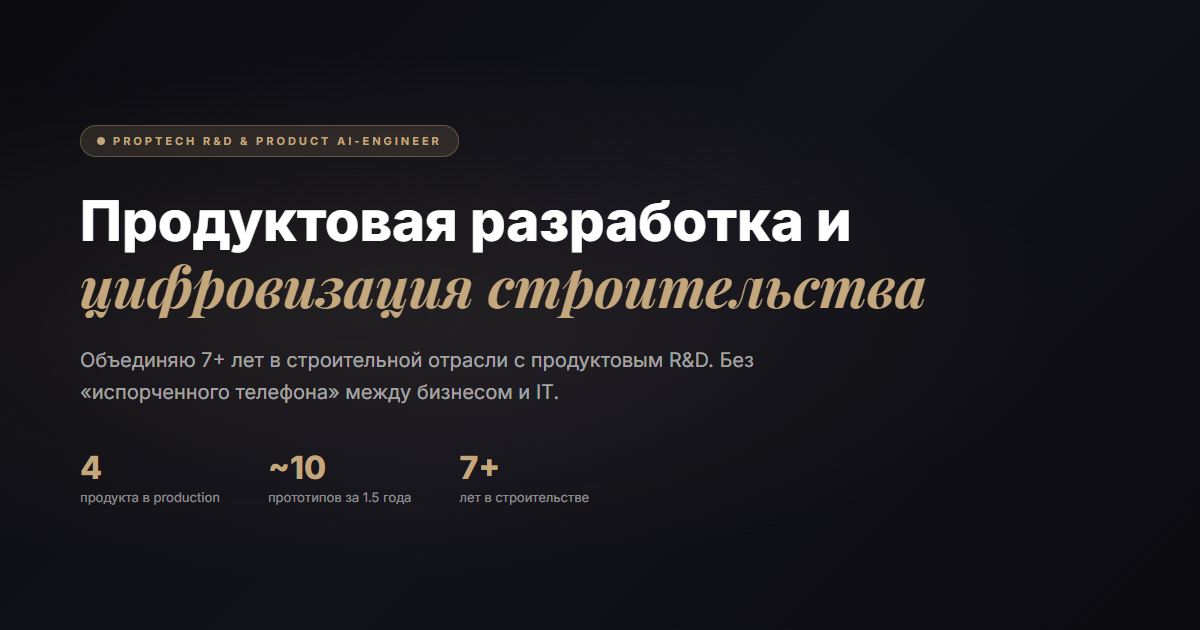
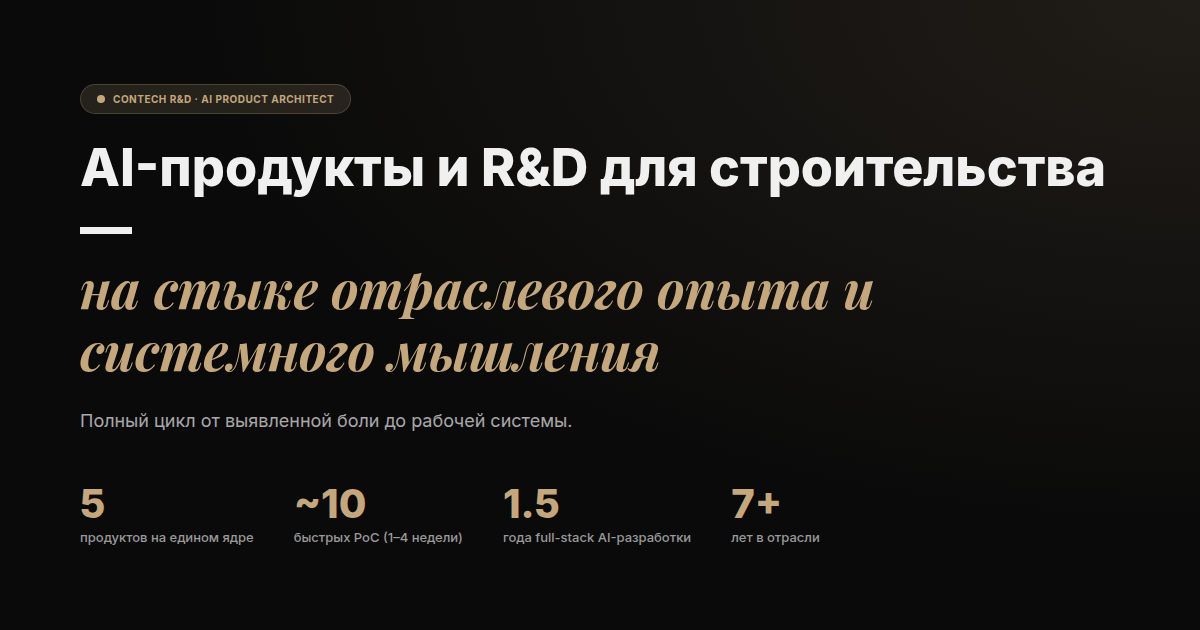
snapshot: визитка как на проде, перед правкой копирайта (Hero/Scanner)

diff --git a/src/App.tsx b/src/App.tsx
@@ -279,36 +279,13 @@ function Hero() {
                   </>
                 ) : (
                   <>
-                    <span className="text-text-primary">AI-продукты и R&D для строительства —</span>
-                    <br/>
-                    <span className="text-accent italic font-serif">на стыке отраслевого опыта и системного мышления</span>
+                    <span className="text-text-primary">AI-продукты и R&D для строительства</span>
                   </>
                 )}
               </h1>
               <p className="text-[0.95rem] text-text-primary/70 leading-relaxed mb-8 animate-blur-fade delay-200 max-w-[640px]">
                 Полный цикл от выявленной боли до рабочей системы. Проверка гипотез — быстрыми PoC за 1–4 недели. Далее — адаптация под ресурсы заказчика: разработка продукта под ключ (Full-Stack + AI), создание AI-ядра под внутреннюю команду или работа в штате. Без эффекта «сломанного телефона» между бизнесом и IT.
               </p>
-              {/* CTA кнопки */}
-              <div className="flex flex-col sm:flex-row gap-3 animate-blur-fade delay-300">
-                <a
-                  href="#products"
-                  className="inline-flex justify-center items-center gap-2 px-6 py-3 bg-accent text-white rounded-xl text-sm font-semibold no-underline transition-all hover:brightness-110 active:scale-[0.98] shadow-lg shadow-accent/20"
-                >
-                  Продукты
-                </a>
-                <a
-                  href="#approach"
-                  className="inline-flex justify-center items-center gap-2 px-6 py-3 bg-surface-2 border border-border text-text-primary rounded-xl text-sm font-semibold no-underline transition-colors hover:border-accent/30 hover:text-accent"
-                >
-                  Подход
-                </a>
-                <a
-                  href="#research"
-                  className="inline-flex justify-center items-center gap-2 px-6 py-3 bg-surface-2 border border-border text-text-primary rounded-xl text-sm font-semibold no-underline transition-colors hover:border-accent/30 hover:text-accent"
-                >
-                  R&D
-                </a>
-              </div>
             </div>
 
             {/* Hero artifact: isometric stack */}
@@ -405,7 +382,7 @@ function Approach() {
         {/* Methodology */}
         <Reveal>
           <SectionHeader
-            tag="Как создаются продукты"
+            tag="Как я создаю продукты"
             tagColor="bg-purple-soft text-purple"
             title="От прототипов к рабочим системам"
             subtitle="Главный барьер цифровизации — не технологии и не бюджет, а разрыв в глубине понимания предметной области. Я проектирую архитектуру напрямую из домена — без длинной цепочки согласований и бесконечных совещаний."
@@ -642,7 +619,9 @@ function Contact() {
           {/* Contacts row: email · phone (center) · telegram */}
           <div className="flex flex-wrap items-center justify-center gap-8 mt-10">
             <a
-              href="mailto:KhromenokNV@mail.ru"
+              href="#"
+              onMouseEnter={(e) => e.currentTarget.href = `mailto:${['KhromenokNV', 'mail.ru'].join('@')}`}
+              onTouchStart={(e) => e.currentTarget.href = `mailto:${['KhromenokNV', 'mail.ru'].join('@')}`}
               onClick={() => tracker.track('contact_click', { channel: 'email' })}
               className="group inline-flex items-center gap-2 text-sm text-muted hover:text-text-primary transition-colors no-underline"
             >
@@ -650,20 +629,24 @@ function Contact() {
                 <path d="M4 4h16c1.1 0 2 .9 2 2v12c0 1.1-.9 2-2 2H4c-1.1 0-2-.9-2-2V6c0-1.1.9-2 2-2z"/><polyline points="22,6 12,13 2,6"/>
               </svg>
               <span className="group-hover:hidden">email</span>
-              <span className="hidden group-hover:inline">KhromenokNV@mail.ru</span>
+              <span className="hidden group-hover:inline">{['KhromenokNV', 'mail.ru'].join('@')}</span>
             </a>
             <a
-              href="tel:+79268973225"
+              href="#"
+              onMouseEnter={(e) => e.currentTarget.href = `tel:+${[7, 926, 897, 32, 25].join('')}`}
+              onTouchStart={(e) => e.currentTarget.href = `tel:+${[7, 926, 897, 32, 25].join('')}`}
               onClick={() => tracker.track('contact_click', { channel: 'phone' })}
               className="inline-flex items-center gap-2 text-base font-semibold text-text-primary hover:text-accent transition-colors no-underline"
             >
               <svg width="16" height="16" viewBox="0 0 24 24" fill="none" stroke="currentColor" strokeWidth="2" strokeLinecap="round" strokeLinejoin="round">
                 <path d="M22 16.92v3a2 2 0 0 1-2.18 2 19.79 19.79 0 0 1-8.63-3.07 19.5 19.5 0 0 1-6-6 19.79 19.79 0 0 1-3.07-8.67A2 2 0 0 1 4.11 2h3a2 2 0 0 1 2 1.72 12.84 12.84 0 0 0 .7 2.81 2 2 0 0 1-.45 2.11L8.09 9.91a16 16 0 0 0 6 6l1.27-1.27a2 2 0 0 1 2.11-.45 12.84 12.84 0 0 0 2.81.7A2 2 0 0 1 22 16.92z"/>
               </svg>
-              +7 926 897-32-25
+              +7 {['92', '6'].join('')} {['89', '7'].join('')}-{['3', '2'].join('')}-25
             </a>
             <a
-              href="https://t.me/psykhrometer"
+              href="#"
+              onMouseEnter={(e) => e.currentTarget.href = `https://${['t', 'me'].join('.')}/${['psyk', 'hrometer'].join('')}`}
+              onTouchStart={(e) => e.currentTarget.href = `https://${['t', 'me'].join('.')}/${['psyk', 'hrometer'].join('')}`}
               target="_blank"
               rel="noopener noreferrer"
               onClick={() => tracker.track('contact_click', { channel: 'telegram' })}
@@ -673,7 +656,7 @@ function Contact() {
                 <line x1="22" y1="2" x2="11" y2="13"/><polygon points="22 2 15 22 11 13 2 9 22 2"/>
               </svg>
               <span className="group-hover:hidden">telegram</span>
-              <span className="hidden group-hover:inline">@psykhrometer</span>
+              <span className="hidden group-hover:inline">@{['psyk', 'hrometer'].join('')}</span>
             </a>
           </div>
 

diff --git a/scripts/generate-og.html b/scripts/generate-og.html
@@ -4,34 +4,29 @@
 <meta charset="utf-8">
 <style>
   * { margin: 0; padding: 0; box-sizing: border-box; }
-  body { width: 1200px; height: 630px; overflow: hidden; }
+  body { width: 1200px; height: 630px; overflow: hidden; background: #0a0a0a; }
   .og {
     width: 1200px;
     height: 630px;
-    background: linear-gradient(135deg, #0a0a0f 0%, #12121a 50%, #0a0a0f 100%);
+    background: radial-gradient(ellipse at top right, rgba(196,167,125,0.12) 0%, transparent 60%);
+    background-color: #0a0a0a;
     display: flex;
     flex-direction: column;
     justify-content: center;
     padding: 80px;
     font-family: 'Inter', system-ui, sans-serif;
-    color: #fff;
+    color: #f0f0f0;
     position: relative;
-  }
-  .og::before {
-    content: '';
-    position: absolute;
-    top: 0; left: 0; right: 0; bottom: 0;
-    background: radial-gradient(ellipse at 30% 50%, rgba(196,167,125,0.10) 0%, transparent 60%);
   }
   .badge {
     display: inline-flex;
     align-items: center;
     gap: 8px;
-    background: rgba(196,167,125,0.15);
-    border: 1px solid rgba(196,167,125,0.35);
+    background: rgba(196, 167, 125, 0.15);
+    border: 1px solid rgba(196, 167, 125, 0.25);
     border-radius: 999px;
     padding: 8px 16px;
-    margin-bottom: 32px;
+    margin-bottom: 24px;
     position: relative;
     width: fit-content;
   }
@@ -41,14 +36,14 @@
     border-radius: 50%;
   }
   .badge-text {
-    font-size: 11px;
+    font-size: 10px;
     font-weight: 700;
-    letter-spacing: 3px;
+    letter-spacing: 0.1em;
     text-transform: uppercase;
     color: #c4a77d;
   }
   h1 {
-    font-size: 56px;
+    font-size: 52px;
     font-weight: 800;
     line-height: 1.15;
     margin-bottom: 24px;
@@ -56,51 +51,68 @@
   }
   h1 span { color: #c4a77d; font-style: italic; font-family: 'Playfair Display', serif; }
   .subtitle {
-    font-size: 20px;
-    color: rgba(255,255,255,0.6);
+    font-size: 18px;
+    color: rgba(240, 240, 240, 0.7);
     line-height: 1.6;
-    max-width: 700px;
+    max-width: 900px;
     position: relative;
   }
   .stats {
     display: flex;
-    gap: 48px;
-    margin-top: 40px;
+    gap: 40px;
+    margin-top: 48px;
     position: relative;
   }
+  .stat-block {
+    display: flex;
+    flex-direction: column;
+  }
   .stat-num {
-    font-size: 32px;
+    font-size: 40px;
     font-weight: 800;
     color: #c4a77d;
+    line-height: 1;
+    margin-bottom: 4px;
   }
   .stat-label {
     font-size: 13px;
-    color: rgba(255,255,255,0.5);
-    margin-top: 2px;
+    font-weight: 500;
+    color: #9a9a9a;
+    max-width: 200px;
+    line-height: 1.4;
   }
 </style>
-<link href="https://fonts.googleapis.com/css2?family=Inter:wght@400;700;800&family=Playfair+Display:ital,wght@1,400;1,700&display=swap" rel="stylesheet">
+<link href="https://fonts.googleapis.com/css2?family=Inter:wght@400;500;700;800&family=Playfair+Display:ital,wght@1,400;1,700&display=swap" rel="stylesheet">
 </head>
 <body>
 <div class="og">
   <div class="badge">
     <div class="badge-dot"></div>
-    <div class="badge-text">PropTech R&D & Product AI-Engineer</div>
+    <div class="badge-text" style="letter-spacing: 0.05em;">ConTech R&D · AI Product Architect</div>
   </div>
-  <h1>Продуктовая разработка и <span>цифровизация строительства</span></h1>
-  <div class="subtitle">Объединяю 7+ лет в строительной отрасли с продуктовым R&D. Без «испорченного телефона» между бизнесом и IT.</div>
+  <h1 style="font-family: 'Inter', sans-serif;">
+    AI-продукты и R&D для строительства —<br/>
+    <span>на стыке отраслевого опыта и системного мышления</span>
+  </h1>
+  <div class="subtitle">
+    Полный цикл от выявленной боли до рабочей системы.
+  </div>
   <div class="stats">
-    <div>
-      <div class="stat-num">4</div>
-      <div class="stat-label">продукта в production</div>
+    <div class="stat-block">
+      <div class="stat-num">5</div>
+      <div class="stat-label">продуктов на едином ядре</div>
     </div>
-    <div>
+    <div class="stat-block">
       <div class="stat-num">~10</div>
-      <div class="stat-label">прототипов за 1.5 года</div>
+      <div class="stat-label">быстрых PoC (1–4 недели)</div>
     </div>
-    <div>
+    <div class="stat-block">
+      <div class="stat-num">1.5</div>
+      <div class="stat-label">года full-stack AI-разработки</div>
+    </div>
+    <div class="stat-block">
       <div class="stat-num">7+</div>
-      <div class="stat-label">лет в строительстве</div>
+      <div class="stat-label">лет в отрасли</div>
     </div>
   </div>
 </div>

diff --git a/index.html b/index.html
@@ -9,14 +9,14 @@
 
     <!-- OpenGraph -->
     <meta property="og:type" content="website" />
-    <meta property="og:title" content="Никита Хроменок — PropTech R&D & Product AI-Engineer" />
+    <meta property="og:title" content="Никита Хроменок" />
     <meta property="og:description" content="7+ лет в строительной отрасли + full-stack разработка. От бизнес-задачи до production-архитектуры — без потери контекста." />
     <meta property="og:image" content="/og-image.png" />
     <meta property="og:locale" content="ru_RU" />
 
     <!-- Twitter Card -->
     <meta name="twitter:card" content="summary_large_image" />
-    <meta name="twitter:title" content="Никита Хроменок — PropTech R&D & Product AI-Engineer" />
+    <meta name="twitter:title" content="Никита Хроменок" />
     <meta name="twitter:description" content="7+ лет в строительной отрасли + full-stack разработка. От бизнес-задачи до production-архитектуры — без потери контекста." />
     <meta name="twitter:image" content="/og-image.png" />
 

diff --git a/scripts/capture-og.js b/scripts/capture-og.js
@@ -1,0 +1,11 @@
+import puppeteer from 'puppeteer';
+import path from 'path';
+
+(async () => {
+  const browser = await puppeteer.launch({ args: ['--no-sandbox', '--disable-setuid-sandbox'] });
+  const page = await browser.newPage();
+  await page.setViewport({ width: 1200, height: 630 });
+  await page.goto(`file://${path.resolve('/opt/enkey/scripts/generate-og.html')}`, { waitUntil: 'networkidle0' });
+  await page.screenshot({ path: '/opt/enkey/public/og-image.png' });
+  await browser.close();
+})();
